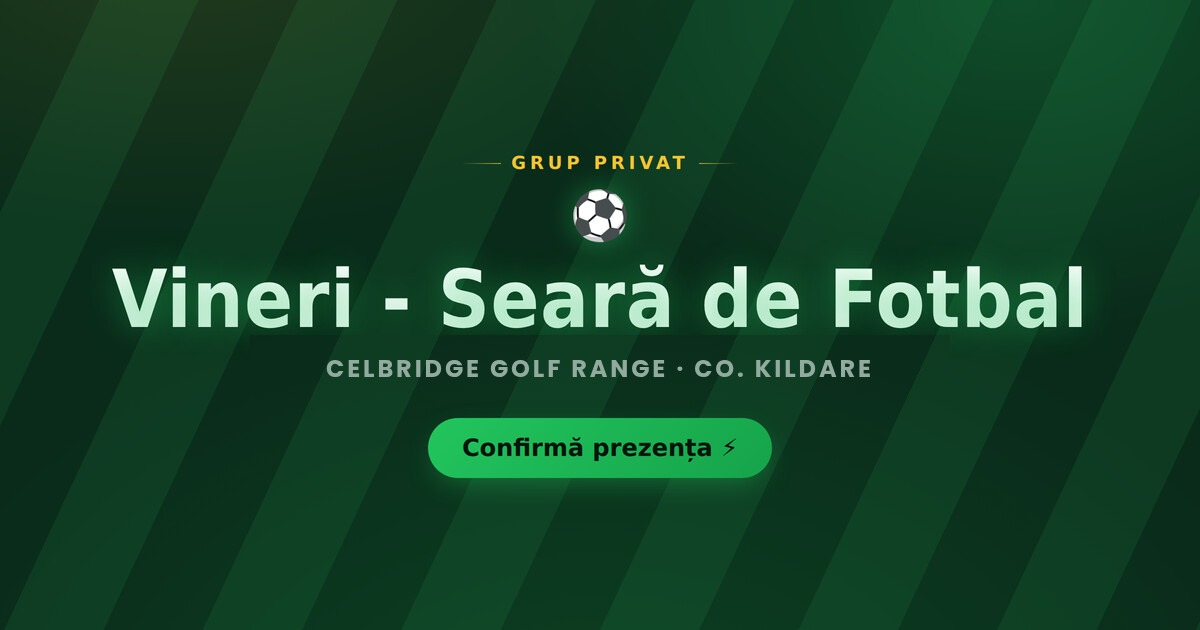
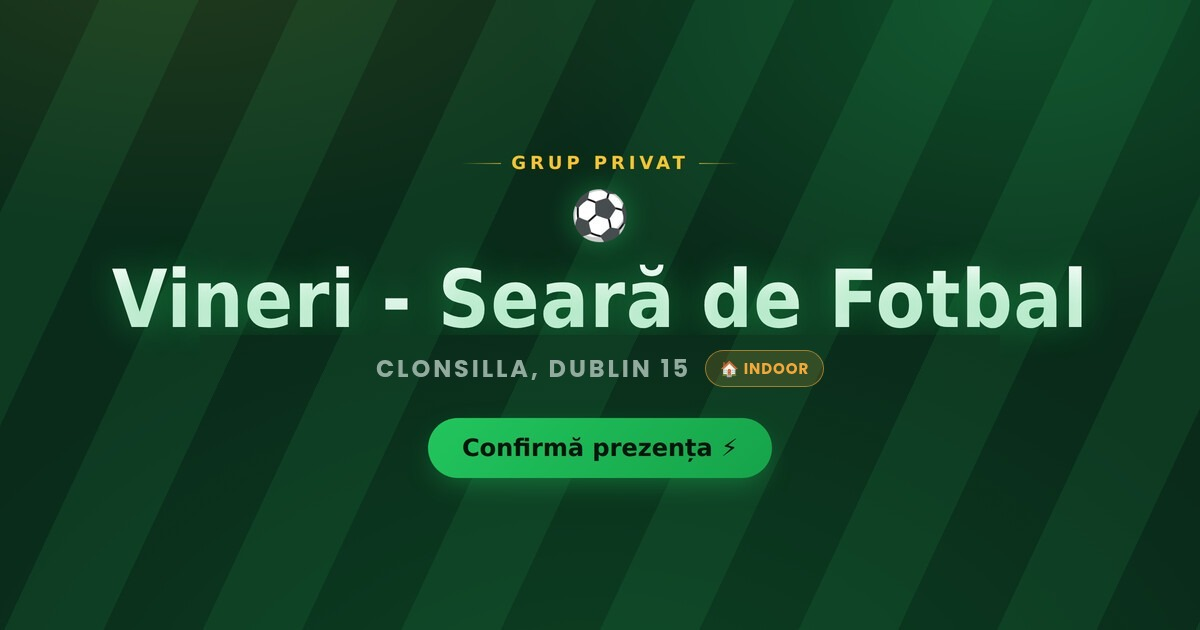
Mutare la Mountview Fortlawn, Clonsilla (Dublin 15) - sala indoor
Adresa noua: Mountview Fortlawn Community Youth and Sports Hub, Lohunda Downs, Clonsilla, Dublin 15, D15 EY81 - sala indoor (adaugat badge "Indoor" langa sectiunea de locatie). Subtitle-urile (header, footer, social card) folosesc doar "Clonsilla, Dublin 15". Preturi noi: 69 euro / 10 jucatori / 1.5h si 90 euro / 15 jucatori / 2h, inlocuind structura veche de la Celbridge. Migrare automata inclusa pentru config-ul deja salvat.

Changed region(s): [[0.2467, 0.5429, 0.74, 0.6333]]

diff --git a/server.js b/server.js
@@ -47,20 +47,19 @@ const STATIC_FILES = {
 };
 
 const DEFAULT_CONFIG = {
-  location: "Celbridge Golf Range & O'Hanlon Park, Celbridge, Co. Kildare, W23 YX30",
+  location: 'Mountview Fortlawn Community Youth and Sports Hub, Lohunda Downs, Clonsilla, Dublin 15, D15 EY81',
   time: '19:00',
   defaultCapacity: 15,
   revtag: 'sbnn3',
-  lat: 53.33907,
-  lon: -6.50912,
+  lat: 53.38999,
+  lon: -6.40543,
   // Pretul per jucator NU e un camp separat — se calculeaza automat din pragul de pret (cost
   // total / nr. de jucatori al pragului respectiv), NU din cati sunt confirmati acum in
   // saptamana curenta (altfel ar arata sume ciudate cat timp lista se umple, ex. 17€ la 3
   // confirmati). Pragul se alege dupa capacitatea saptamanii (vezi computePricing).
   priceTiers: [
-    { minPlayers: 15, totalCost: 70, hours: 2 },
-    { minPlayers: 12, totalCost: 70, hours: 2 },
-    { minPlayers: 10, totalCost: 50, hours: 1.5 },
+    { minPlayers: 15, totalCost: 90, hours: 2 },
+    { minPlayers: 10, totalCost: 69, hours: 1.5 },
   ],
 };
 
@@ -90,28 +89,28 @@ function ensureConfig(data) {
       .filter((phone) => phone !== PROTECTED_ADMIN_PHONE)
       .map((phone) => ({ phone, addedAt: new Date().toISOString() }));
   }
-  // migrare: locatia terenului (si capacitatea/pretul asociate) s-au schimbat intre timp — intai
-  // locatia, de doua ori ("O'Hanlon Park" -> "Celbridge Golf Range" -> teren nou in Dublin 11),
-  // apoi ne-am mutat inapoi la Celbridge (teren mai mare, deci si capacitatea/pragurile de pret
-  // revin la valorile de dinainte de Dublin 11 — vezi DEFAULT_CONFIG mai sus). Config-ul deja
-  // salvat are mereu prioritate fata de DEFAULT_CONFIG (vezi Object.assign de mai sus), deci orice
-  // valoare veche ramane "inghetata" pana o corectam explicit aici — altfel saptamana viitoare
-  // noul meci auto-creat ar reveni la valorile vechi. Verificam doar valorile vechi cunoscute, ca
-  // sa nu suprascriem vreodata o schimbare facuta manual de admin.
+  // migrare: locatia terenului (si capacitatea/pretul asociate) s-au schimbat de mai multe ori —
+  // "O'Hanlon Park" -> "Celbridge Golf Range" -> teren in Dublin 11 (St. Kevin's) -> inapoi la
+  // Celbridge -> acum sala indoor Mountview Fortlawn, Clonsilla, Dublin 15 (vezi DEFAULT_CONFIG mai
+  // sus). Config-ul deja salvat are mereu prioritate fata de DEFAULT_CONFIG (vezi Object.assign de
+  // mai sus), deci orice valoare veche ramane "inghetata" pana o corectam explicit aici — altfel
+  // saptamana viitoare noul meci auto-creat ar reveni la valorile vechi. Verificam doar valorile
+  // vechi cunoscute, ca sa nu suprascriem vreodata o schimbare facuta manual de admin.
   const OLD_LOCATIONS = [
     "O'Hanlon Park, Celbridge",
     'Celbridge Golf Range, Celbridge, Co. Kildare',
     "St. Kevin's FC Centre Of Excellence, Dublin 11, D11 TF72",
+    "Celbridge Golf Range & O'Hanlon Park, Celbridge, Co. Kildare, W23 YX30",
   ];
-  // Mai multe variante vechi de praguri de pret, pe masura ce structura s-a rafinat: cele din
-  // Dublin 11, prima varianta pusa la revenirea la Celbridge (doar 2 praguri, 15 si 10 jucatori),
-  // apoi varianta cu 3 praguri dar cu pragul de 12 jucatori tot la 50€/1.5h — inainte sa devina
-  // 70€/2h (acelasi cost/durata ca la 15, doar pragul de jucatori mai mic). Toate trebuie migrate
-  // spre structura finala din DEFAULT_CONFIG mai sus.
+  // Mai multe variante vechi de praguri de pret, pe masura ce structura s-a rafinat si s-a mutat:
+  // cele din Dublin 11, doua variante puse la revenirea la Celbridge (2 praguri, apoi 3 praguri cu
+  // pragul de 12 jucatori intai la 50€/1.5h apoi la 70€/2h). Toate trebuie migrate spre structura
+  // finala din DEFAULT_CONFIG mai sus (Mountview: doar 2 praguri, 69€/1.5h si 90€/2h).
   const OLD_TIERS_JSON_LIST = [
     JSON.stringify([{ minPlayers: 18, totalCost: 140, hours: 2 }, { minPlayers: 12, totalCost: 105, hours: 1.5 }]),
     JSON.stringify([{ minPlayers: 15, totalCost: 70, hours: 2 }, { minPlayers: 10, totalCost: 50, hours: 1.5 }]),
     JSON.stringify([{ minPlayers: 15, totalCost: 70, hours: 2 }, { minPlayers: 12, totalCost: 50, hours: 1.5 }, { minPlayers: 10, totalCost: 50, hours: 1.5 }]),
+    JSON.stringify([{ minPlayers: 15, totalCost: 70, hours: 2 }, { minPlayers: 12, totalCost: 70, hours: 2 }, { minPlayers: 10, totalCost: 50, hours: 1.5 }]),
   ];
 
   if (OLD_LOCATIONS.includes(data.config.location)) {

diff --git a/index.html b/index.html
@@ -650,6 +650,19 @@
     letter-spacing:.02em;
     margin-bottom:12px;
   }
+  .indoor-badge{
+    margin-left:auto;
+    display:inline-flex;
+    align-items:center;
+    gap:4px;
+    padding:4px 10px;
+    border-radius:999px;
+    font-size:11px;
+    letter-spacing:.04em;
+    background:rgba(242,169,59,0.16);
+    color:var(--amber);
+    border:1px solid rgba(242,169,59,0.4);
+  }
   .map-frame{
     width:100%;
     height:170px;
@@ -955,7 +968,7 @@
         <circle cx="11.01" cy="37.33" r="3.4"/>
       </g>
     </svg></h1>
-    <p>Celbridge Golf Range · Co. Kildare</p>
+    <p>Clonsilla, Dublin 15</p>
   </header>
 
   <div id="loading" class="spinner">Se încarcă…</div>
@@ -990,7 +1003,7 @@
       <span id="closed-weather" class="hidden">🌡 —</span>
     </div>
     <div class="location-box">
-      <div class="ltitle">📍 Cum ajungi</div>
+      <div class="ltitle">📍 Cum ajungi<span class="indoor-badge">🏠 Indoor</span></div>
       <iframe class="map-frame" id="closed-map-frame" src="" loading="lazy" referrerpolicy="no-referrer-when-downgrade"></iframe>
       <a href="#" id="closed-btn-maps" class="btn-maps" target="_blank" rel="noopener">Deschide în Google Maps ↗</a>
     </div>
@@ -1046,7 +1059,7 @@
       </div>
 
       <div id="location-box" class="location-box hidden">
-        <div class="ltitle">📍 Cum ajungi</div>
+        <div class="ltitle">📍 Cum ajungi<span class="indoor-badge">🏠 Indoor</span></div>
         <iframe class="map-frame" id="map-frame" src="" loading="lazy" referrerpolicy="no-referrer-when-downgrade"></iframe>
         <a href="#" id="btn-maps" class="btn-maps" target="_blank" rel="noopener">Deschide în Google Maps ↗</a>
       </div>
@@ -1070,7 +1083,7 @@
         <a href="#" id="not-me-link">Nu sunt eu</a>
       </div>
     </div>
-    <footer class="credit">Vineri - Seară de Fotbal · Celbridge Golf Range</footer>
+    <footer class="credit">Vineri - Seară de Fotbal · Clonsilla, Dublin 15</footer>
   </div>
 </div>
 

diff --git a/README.md b/README.md
@@ -1,4 +1,4 @@
-# ⚽ Fotbal Vineri — Celbridge Golf Range & O'Hanlon Park, Celbridge
+# ⚽ Fotbal Vineri — Mountview Fortlawn Community Youth and Sports Hub, Clonsilla, Dublin 15 (indoor)
 
 Aplicație simplă pentru gestionarea prezenței la meciurile de fotbal de vineri seara. Jucătorii se înregistrează o singură dată (nume + telefon) și apoi confirmă prezența în fiecare săptămână cu un singur click, direct de pe telefon.
 
